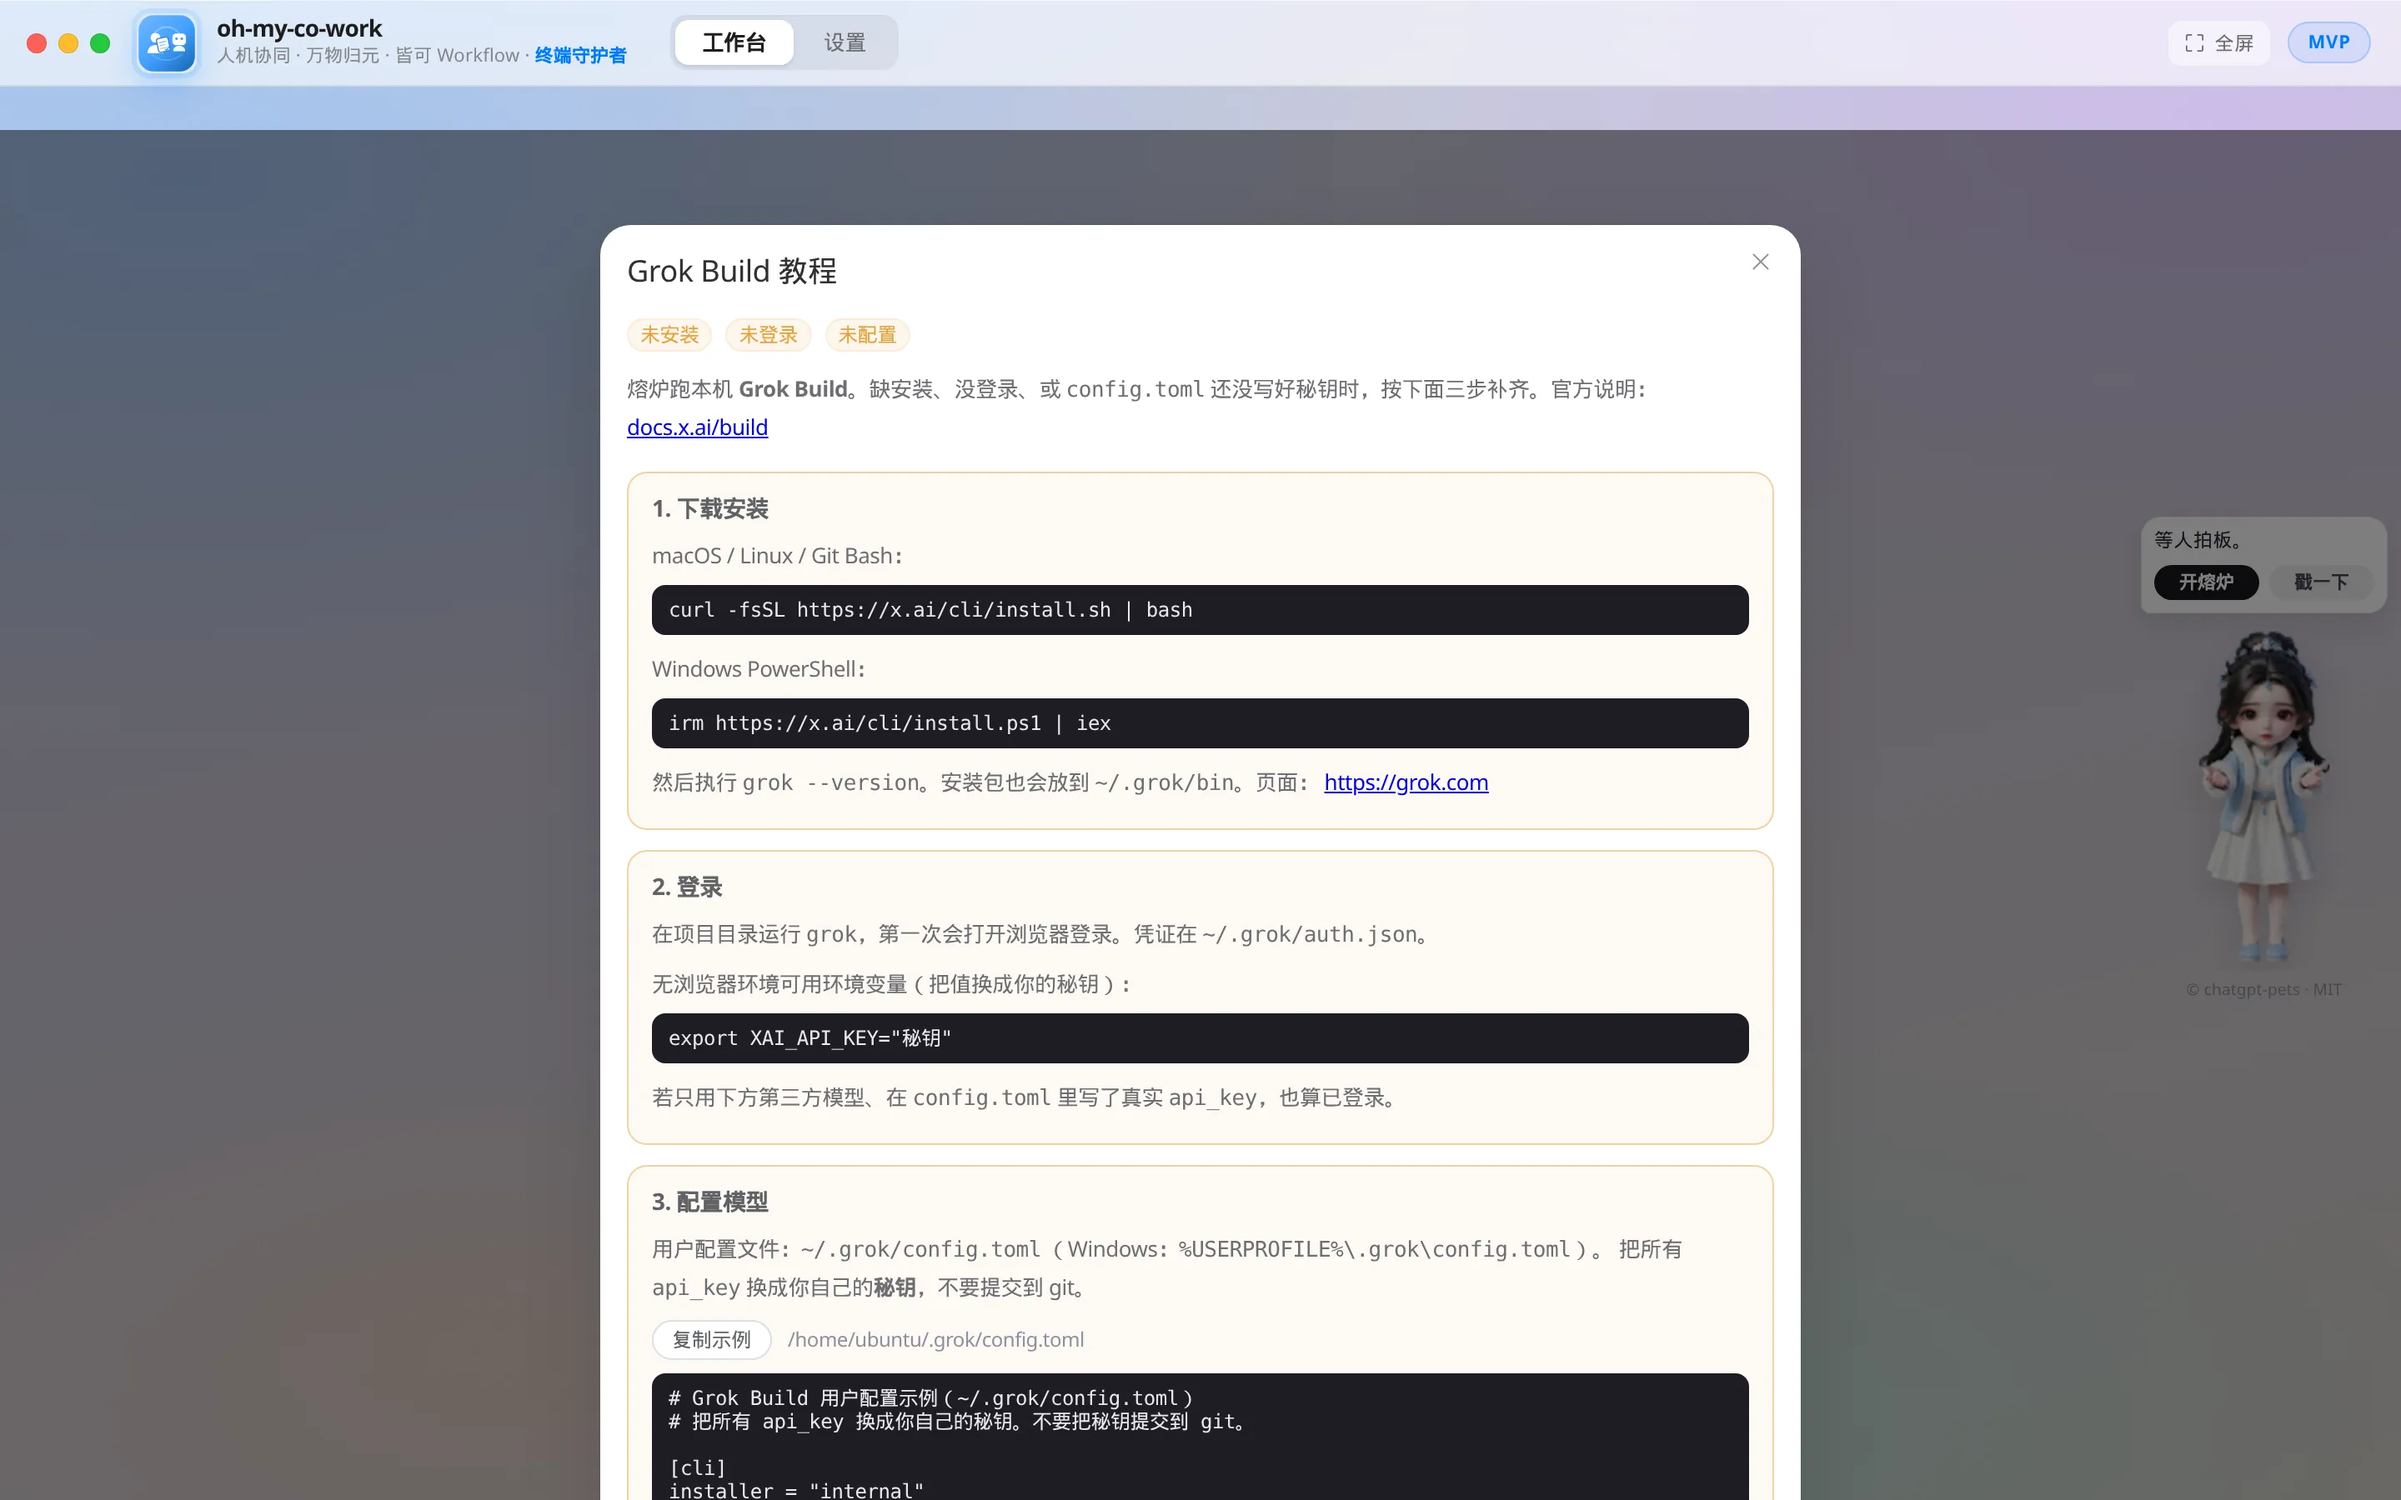
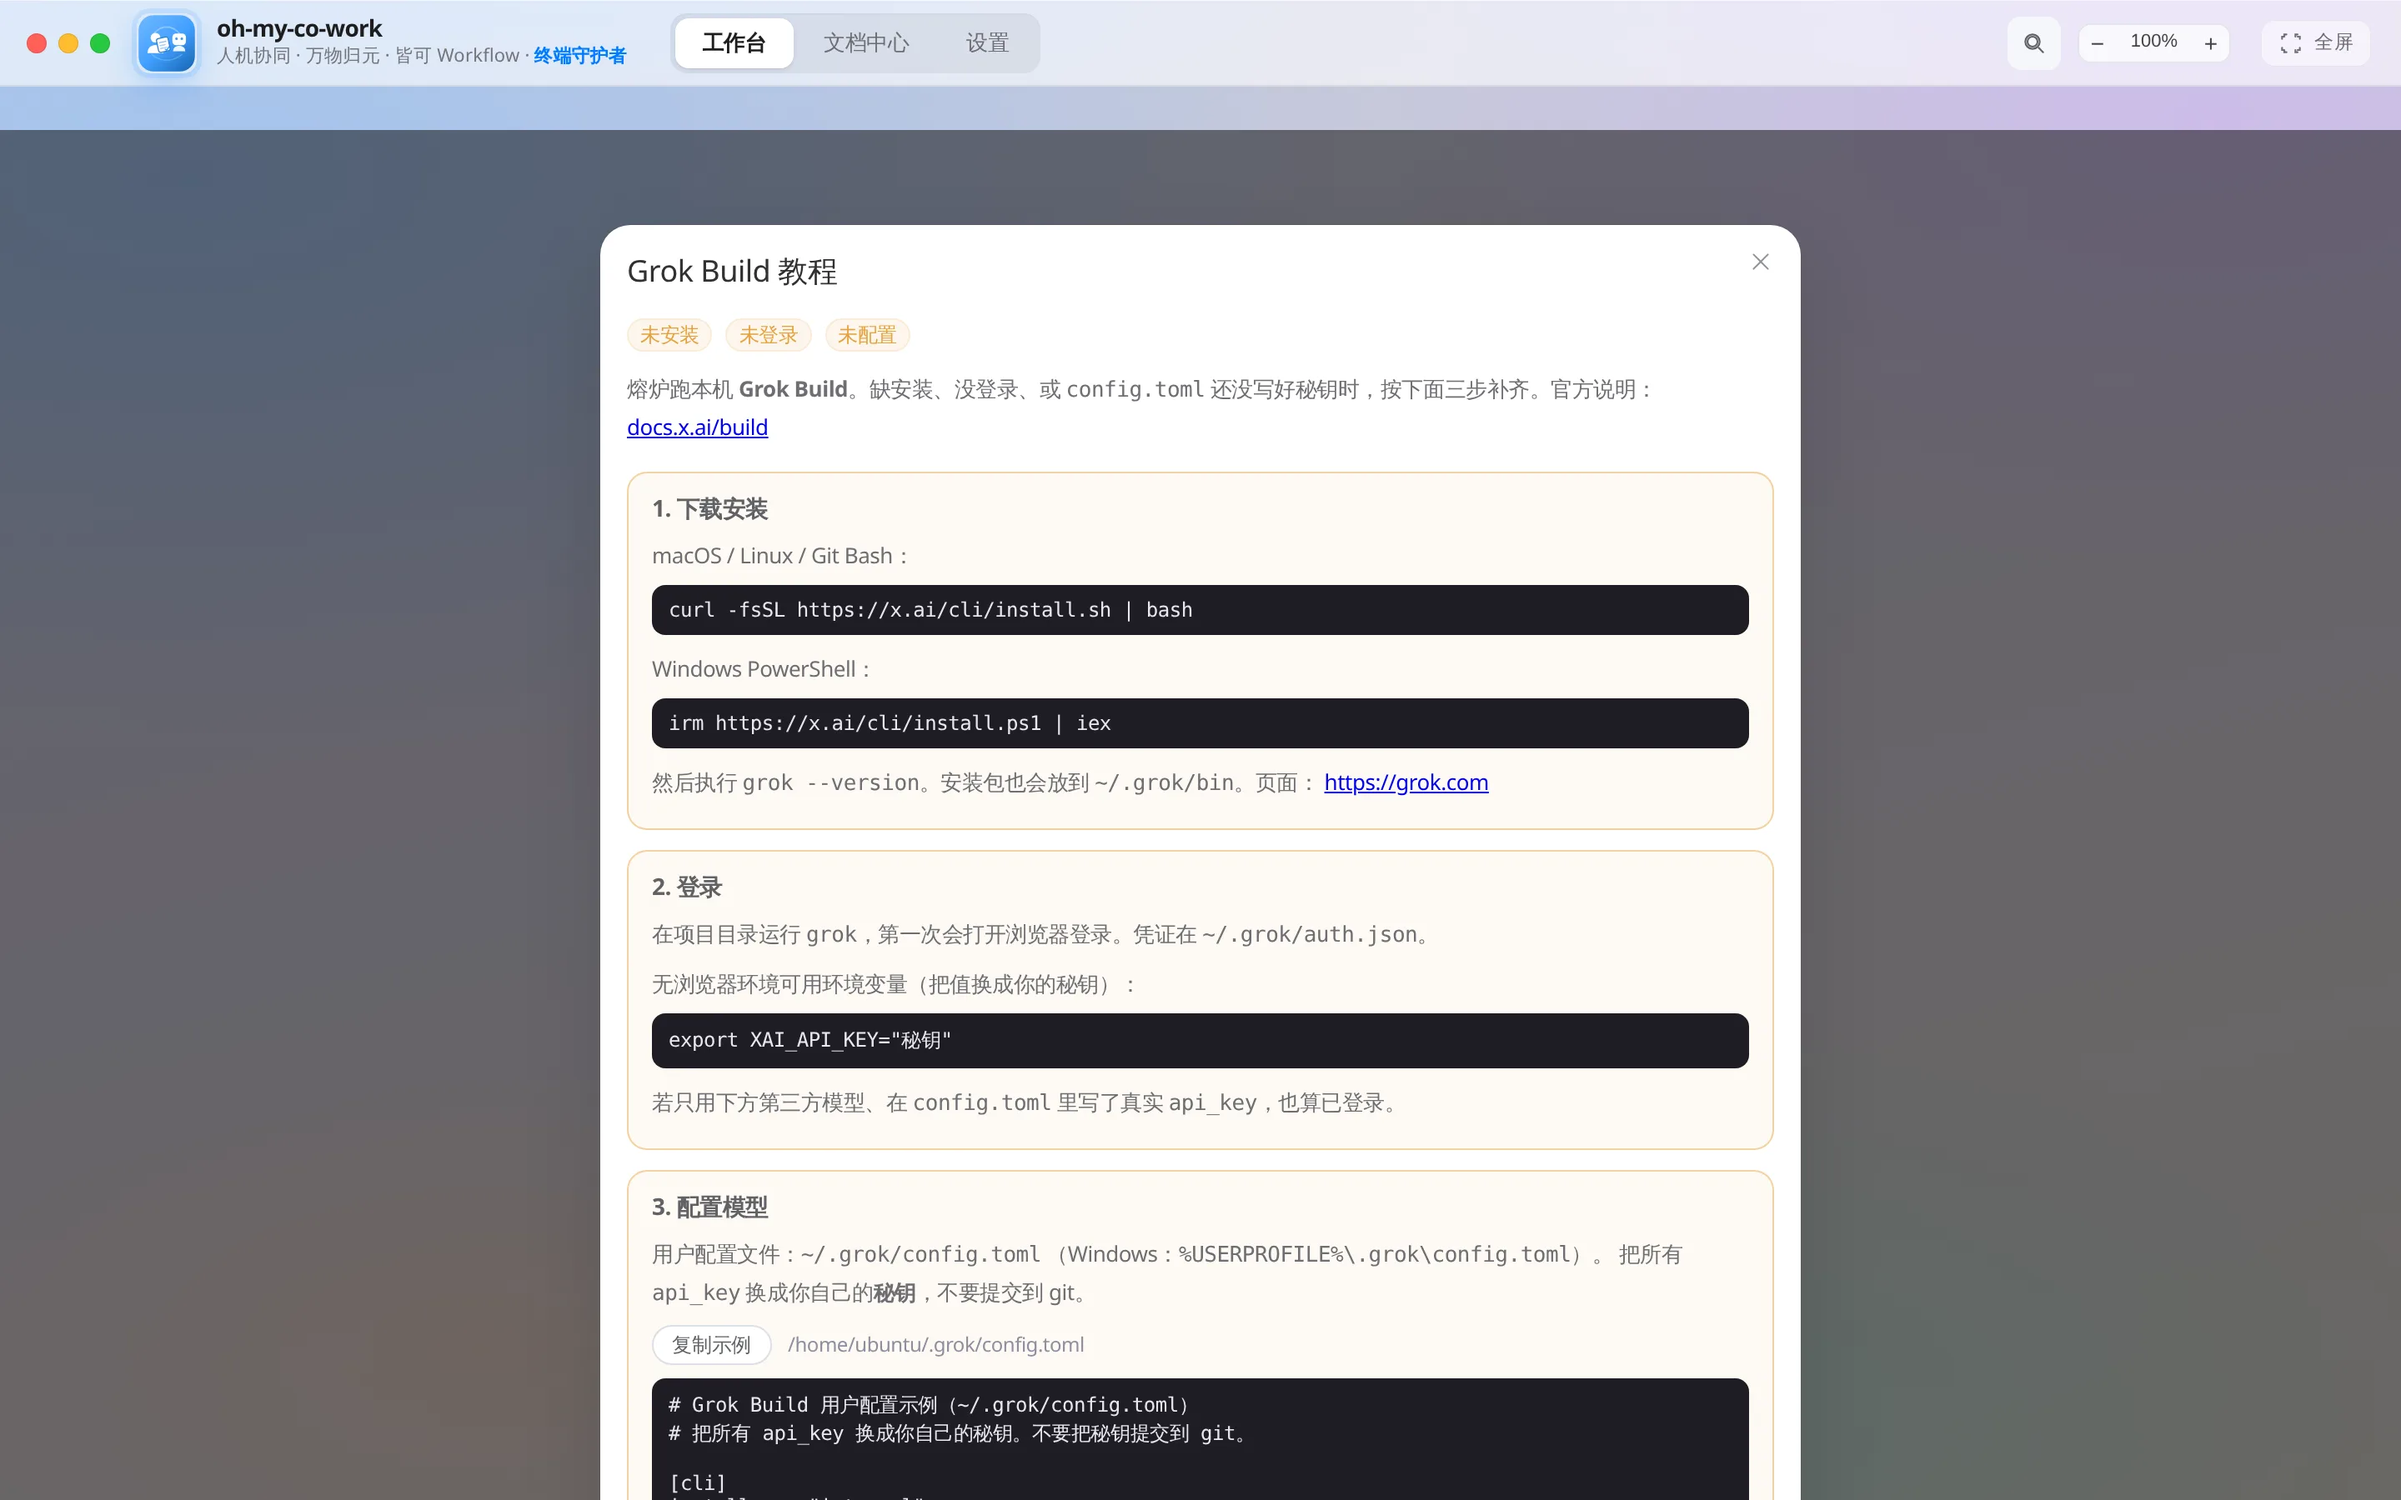
docs: refresh README screenshots for 6.13 and add capture script

diff --git a/README.md b/README.md
@@ -12,7 +12,7 @@
 
 <p align="center">
   <a href="https://github.com/371684029/oh-my-co-work/stargazers"><img src="https://img.shields.io/github/stars/371684029/oh-my-co-work?style=flat-square&color=409eff" alt="GitHub stars" /></a>
-  <img src="https://img.shields.io/badge/version-6.13.0-409eff?style=flat-square" alt="version 6.12.0" />
+  <img src="https://img.shields.io/badge/version-6.13.0-409eff?style=flat-square" alt="version 6.13.0" />
   <img src="https://img.shields.io/badge/2.0-hardened-67c23a?style=flat-square" alt="2.0 hardened" />
   <img src="https://img.shields.io/badge/Node.js-%E2%89%A518-43853d?style=flat-square" alt="Node.js >= 18" />
   <img src="https://img.shields.io/badge/platform-Windows%20%7C%20macOS%20%7C%20Linux-6e6e73?style=flat-square" alt="platforms" />
@@ -123,11 +123,11 @@
 
 <img src="./docs/assets/screenshots/furnace-grok-guide.webp" alt="点熔炉桌宠后弹出的 Grok Build 教程" width="100%" />
 
-<img src="./docs/assets/screenshots/furnace-workspace-chat.webp" alt="熔炉铺满页面：GUI 欢迎卡、李慕婉头像、底部输入、可缩小回三栏" width="100%" />
+<img src="./docs/assets/screenshots/furnace-workspace-chat.webp" alt="熔炉铺满页面：默认 TUI 或干活面，李慕婉桌宠仍在右侧，可缩小回三栏" width="100%" />
 
 - 桌宠用 [chatgpt-pets](https://github.com/xiongxianzhu/chatgpt-pets) **v2 图集**（李慕婉）：闲置 `idle` / 干活 `running` / 等人 `waiting`；戳一下播 `waving`；悬停看向指针。系统要求减少动效时停在 idle 第一帧。立绘从该 git 复制，**MIT © 2026 zhuxiongxian / chatgpt-pets 贡献者**（见 `web/src/assets/pets/LICENSE`）。
 - 3.7 当时默认 **GUI**（欢迎卡 + 可读正文）。**4.8 起**产品默认铺满 **TUI**，GUI 入口已隐藏。附件仍可落到熔炉 `inbox/`，发送时把相对路径写成一行写进同一进程。
-- 开炉写入 `data/furnace/AGENTS.md` 短规则 + `.grok/rules/session.md`（官方 CLI 没有能给交互式会话预填第一句话的参数，短启动词跟着规则一起写进去，由 grok 自己按目录发现）。长文在 `ACTIVE.md`，禁止复述。不写 `~/.grok/AGENTS.md`。
+- 开炉写入 `data/furnace/AGENTS.md` 短合同 + 同步 **bundled Skills** 到 `.grok/skills/`（6.13 起自定义工作目录覆盖前需确认）。`session.md` 仅为占位；专业流程在 **Skills** 与 `ACTIVE.md`。不写 `~/.grok/AGENTS.md`。
 - **要改哪个工具**写在 `ACTIVE.md`「本轮要改的工具」，并写进 `AGENTS.md` 的工具提示（没关规则写入时，即使还没标成已配置 Grok 也会写）。设置里已保存且有脚本路径的成员用 **「进入熔炉改这个工具」**，不看试跑成败；弹窗里选的 Grok 或 Cursor 会记下来，打开会话时按它接活进程。顶栏可先聊别的、继续改、解除。换成员才新开进程；同一成员接着聊，进程不会自动重读，需要时告诉它再看 ACTIVE。
 - **TUI**：原 Grok / Cursor 终端。菜单和快捷键走这里。隐藏时不把 PTY 缩成几列。首次进入后切皮不拆终端。
 - **双 Agent**：顶栏切换 Grok CLI 与 Cursor CLI；熔炉聚焦时 `Ctrl/Cmd+1`、`Ctrl/Cmd+2` 有效。Cursor 命令默认为 `cursor-agent`（设置可改）。未安装时不会假装已登录。
@@ -184,7 +184,7 @@
 请用 **`*-win32-x64-desktop.zip`**（不要用轻量 `*-win32-x64.zip`）。解压到新文件夹再打开。若黑窗停住并提示失败，把解压目录里的 `data/electron.log`、`data/desktop-launch.log` 发出来。
 
 <img src="./docs/assets/screenshots/windows-desktop.png" alt="Windows 桌面窗口：oh-my-co-work 工作台" width="100%" />
-<p align="center"><sub>4.9.1 桌面包：Logo 图标 exe、默认全屏打开工作台并拉起本机服务</sub></p>
+<p align="center"><sub>6.13 桌面包界面（Linux 重拍示意；Windows 解压 <code>*-win32-x64-desktop.zip</code> 后体验一致）</sub></p>
 
 源码开发也可以：`npm install` 后执行 `npm run dev:desktop`（需本机已能访问工作台 API，或让 Electron 自行拉起 `server`）。
 

diff --git a/CODE_CHANGE.md b/CODE_CHANGE.md
@@ -3,6 +3,7 @@
 > 文件级变更台账。每个文件的增、删、改、移动都追加一条记录。
 > 随仓库提交（不在 gitignore 中）。按日期降序，最新在最上面。
 
+2026-11-24 | A/M | docs/assets/screenshots/*, scripts/capture-readme-screenshots.mjs, README.md, package.json | README 截图 6.13 重拍；capture:readme 脚本
 2026-11-24 | A/M | docs/{plan-6.13.0,plan-backlog-wont-do}.md, server/src/{furnaceSkillSync,furnaceContext,furnaceGrokInject,appSettings,routes/settingsRoutes}, web/src/views/settings/{Prefs,Members,MembersListPanel,PrefsFurnaceSkillsCard,PrefsGrokCard}, i18n/settingsPrefs.*, web/src/api.js, server/test/furnace*, server/config/furnace/README.md, CHANGELOG, plan-backlog | 6.13 FSK-B、workspace 确认、Vue 拆分、禁止清单
 2026-11-24 | A/M | docs/plan-6.12.0.md, server/src/{refineRestore,sessionTimeline,furnaceSkillSync,furnaceSituation,routes/{catalog,sessions}Routes}, web/src/views/{docs/DocsRefineChangesPane,workbench/{composables/*,components/FlowRailTimelinePane}}, i18n/*, server/test/{sessionTimeline,furnaceSkillSync}.test.js, {package,about,CHANGELOG,README,plan-backlog,plan-docs-4x} | 6.12：patch 导出、时间线炼化、NTF-R toast、CUR-F Cursor rules、版本 6.12.0
 2026-11-24 | M | web/src/main.js, docs/spec-frontend-components.md | 首屏补全 ElDropdown 样式，修复 Conversations 会话菜单重启后竖排裸奔
